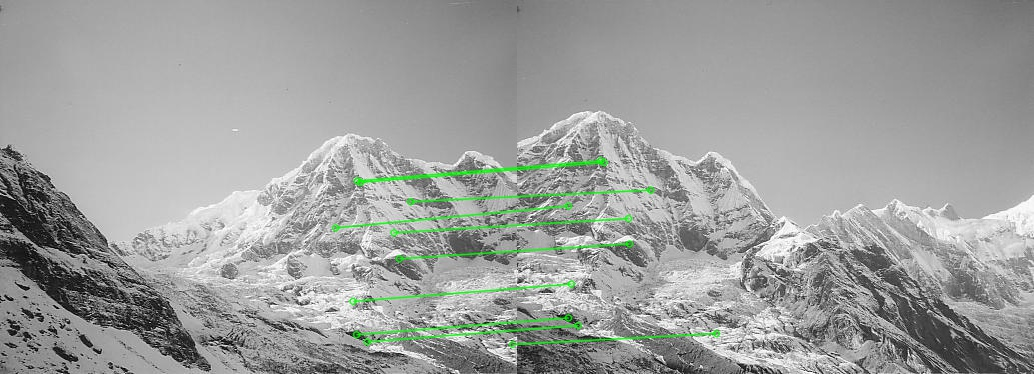
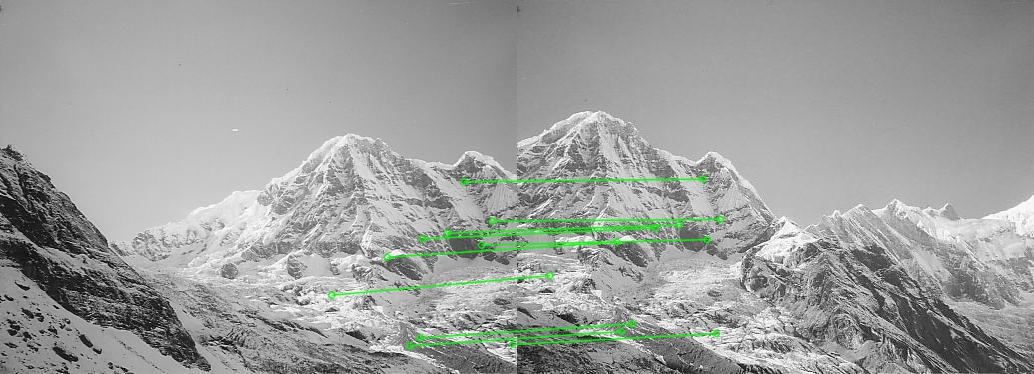
Finished Epipolar_geometry

Changed region(s): [[0.3095, 0.4118, 0.7118, 0.7059], [0.3404, 0.8235, 0.619, 0.9412], [0.3095, 0.7353, 0.5571, 0.8235]]

diff --git a/epipolar_geometry.py b/epipolar_geometry.py
@@ -1,0 +1,88 @@
+UBIT = 'pkubal';
+import numpy as np;
+np.random.seed(sum([ord(c) for c in UBIT]))
+
+import cv2 as cv2
+import numpy as np
+from matplotlib import pyplot as plt
+from functions import drawlines
+
+img_left = cv2.imread("./data/tsucuba_left.png")
+img_left_g = cv2.cvtColor(img_left.copy(),cv2.COLOR_BGR2GRAY)
+img_right = cv2.imread("./data/tsucuba_right.png")
+img_right_g = cv2.cvtColor(img_right.copy(),cv2.COLOR_BGR2GRAY)
+
+sift = cv2.xfeatures2d.SIFT_create()
+keypoints_img_left = sift.detect(img_left_g.copy(),None)
+keypoints_img_right = sift.detect(img_right_g.copy(),None)
+
+display_img1=cv2.drawKeypoints(img_left_g.copy(),keypoints_img_left.copy(),img_left.copy())
+display_img2=cv2.drawKeypoints(img_right_g.copy(),keypoints_img_right.copy(),img_right.copy())
+
+cv2.imwrite('2/task2_sift1.jpg',display_img1.copy())
+cv2.imwrite('2/task2_sift2.jpg',display_img2.copy())
+
+keypoints_img_leftknn, desc1 = sift.detectAndCompute(img_left_g.copy(),None)
+keypoints_img_rightknn, desc2 = sift.detectAndCompute(img_right_g.copy(),None)
+
+FLANN_INDEX_KDTREE = 1
+index_params = dict(algorithm = FLANN_INDEX_KDTREE, trees = 50)
+search_params = dict(checks=50000)
+
+flann = cv2.FlannBasedMatcher(index_params,search_params)
+
+matches = flann.knnMatch(desc1,desc2,k=2)
+ratioTestM=[]
+
+for i,(m,n) in enumerate(matches):
+    if m.distance < 0.75*n.distance:
+        ratioTestM.append([m])
+        
+img3 = cv2.drawMatchesKnn(img_left_g.copy(),keypoints_img_leftknn.copy(),img_right_g.copy(),keypoints_img_rightknn.copy(),ratioTestM,None,flags =2)
+
+cv2.imwrite('2/task2_matches_knn.jpg',img3)
+
+# Fundamental Matrix
+ratioTestM = np.array(ratioTestM)
+left_pts = np.float32([keypoints_img_leftknn[m.queryIdx].pt for m in ratioTestM.flatten()])
+right_pts = np.float32([keypoints_img_rightknn[m.trainIdx].pt for m in ratioTestM.flatten()])
+
+F, mask = cv2.findFundamentalMat(left_pts,right_pts,cv2.RANSAC,5)
+matchesMask = mask.ravel().tolist()
+# Random Sampling 10 points
+rand10matchesMask = []
+inlier_idx = []
+for i in range(0,len(matchesMask)):
+    if(matchesMask[i] == 1):
+        inlier_idx.append(i)
+rand10Places = np.random.choice(inlier_idx,10,replace=False)
+for i in range(0,len(matchesMask)):
+    if((i == rand10Places).any()):
+        rand10matchesMask.append(1)
+    else:
+        rand10matchesMask.append(0)
+
+rand10matchesMask= np.array(rand10matchesMask)
+
+left_pts = left_pts[rand10matchesMask==1]
+right_pts = right_pts[rand10matchesMask == 1]
+
+linesonLeft = cv2.computeCorrespondEpilines(right_pts.reshape(-1,1,2), 2,F)
+linesonLeft = linesonLeft.reshape(-1,3)
+img5,img6 = drawlines(img_left_g,img_right_g,linesonLeft,left_pts,right_pts)
+
+linesonRight = cv2.computeCorrespondEpilines(left_pts.reshape(-1,1,2), 1,F)
+linesonRight = linesonRight.reshape(-1,3)
+img3,img4 = drawlines(img_right_g,img_left_g,linesonRight,right_pts,left_pts)
+
+cv2.imwrite('2/task2_epi_right.jpg',img5)
+cv2.imwrite('2/task2_epi_left.jpg',img3)
+
+# disparity map
+stereo = cv2.StereoBM_create(numDisparities=64, blockSize=27)
+disparity = stereo.compute(img_left_g,img_right_g)
+disparity_norm = normImage(disparity)
+disparity_norm = np.asanyarray(np.dot(disparity_norm,255),dtype='int32')
+cv2.imwrite('2/task2_disparity.jpg',disparity_norm)
+        
+

diff --git a/functions.py b/functions.py
@@ -1,0 +1,52 @@
+#!/usr/bin/env python3
+# -*- coding: utf-8 -*-
+"""
+Created on Sat Nov  3 00:04:34 2018
+
+@author: pratik
+"""
+
+def drawlines(img1,img2,lines,pts1,pts2):
+    # Reference CV2 Documentation
+    # https://docs.opencv.org/3.1.0/da/de9/tutorial_py_epipolar_geometry.html
+    import cv2
+    import numpy as np
+    r,c = img1.shape
+    img1 = cv2.cvtColor(img1,cv2.COLOR_GRAY2BGR)
+    img2 = cv2.cvtColor(img2,cv2.COLOR_GRAY2BGR)
+    colDict = {1:(74, 208, 197),
+               2:(140, 20, 143),
+               3:(179, 241, 184),
+               4:(23, 82, 85),
+               5:(135, 0, 55),
+               6:(255, 255, 255),
+               7:(157, 127, 31),
+               8:(198, 167, 158),
+               9:(124, 237, 58),
+               10:(100, 194, 116)}
+    i=1
+    for r,pt1,pt2 in zip(lines,pts1,pts2):
+        color = colDict.get(i)
+        x0,y0 = map(int, [0, -r[2]/r[1] ])
+        x1,y1 = map(int, [c, -(r[2]+r[0]*c)/r[1] ])
+        img1 = cv2.line(img1, (x0,y0), (x1,y1), color,1)
+        img1 = cv2.circle(img1,tuple(pt1),5,color,-1)
+        img2 = cv2.circle(img2,tuple(pt2),5,color,-1)
+        i+=1
+    return img1,img2
+
+def normImage(matA):
+    import numpy as np
+    skeleton=[[] for i in range(0,np.shape(matA)[0])]
+    maxValue = 0
+    absValue = 0
+    for window_h in range(0,np.shape(matA)[0]):
+        for window_w in range(0,np.shape(matA)[1]):
+            absValue = abs(matA[window_h][window_w])
+            skeleton[window_h].append(absValue)     
+            if(maxValue < absValue) : maxValue = absValue
+    returnMat=[[] for i in range(0,np.shape(matA)[0])]
+    for window_h in range(0,np.shape(matA)[0]):
+        for window_w in range(0,np.shape(matA)[1]):
+            returnMat[window_h].append(skeleton[window_h][window_w] / maxValue)
+    return returnMat

diff --git a/image_features_homography.py b/image_features_homography.py
@@ -23,11 +23,6 @@ cv2.imwrite('1/task1_sift1.jpg',display_img1.copy())
 cv2.imwrite('1/task1_sift2.jpg',display_img2.copy())
 
 # Next Part
-''' 
-Since we have to find best matches of a keypoint in left image on the right 
-image, the left image will be the train image while the right will be query 
-image
-'''
 keypoints_img1knn, desc1 = sift.detectAndCompute(img1_g.copy(),None)
 keypoints_img2knn, desc2 = sift.detectAndCompute(img2_g.copy(),None)
 
@@ -54,7 +49,7 @@ ratioTestM = np.array(ratioTestM)
 src_pts = np.float32([keypoints_img1knn[m.queryIdx].pt for m in ratioTestM.flatten()])
 dst_pts = np.float32([keypoints_img2knn[m.trainIdx].pt for m in ratioTestM.flatten()])
 
-M, mask = cv2.findHomography(src_pts,dst_pts, cv2.RANSAC,1)
+H, mask = cv2.findHomography(src_pts,dst_pts, cv2.RANSAC,1)
 matchesMask = mask.ravel().tolist()
 
 # Random Sampling 10 points
@@ -85,13 +80,13 @@ h,w = np.shape(img1_g)
 P = [[0,w,w,0],
      [0,0,h,h],
      [1,1,1,1]]
-P = np.matmul(M,P)
+P = np.matmul(H,P)
 P[0] = np.divide(P[0],P[2])
 P[1] = np.divide(P[1],P[2])
-M2 = M.copy()
-M2[0][2] = M[0][2] - min(P[0])
-M2[1][2] = M[1][2] - min(P[1])
-warpImg = cv2.warpPerspective(img1_g.copy(),M2,(w*2,h*2))
+M2 = H.copy()
+M2[0][2] = H[0][2] - min(P[0])
+M2[1][2] = H[1][2] - min(P[1])
+warpImg = cv2.warpPerspective(img1_g.copy(),H,(w*2,h*2))
 # test[h:h*2,w:w*2]=img2_g.copy()
 #warpImg[0:h,0:w]=img2_g.copy()
 cv2.imwrite("1/task1_pano.jpg", warpImg)
